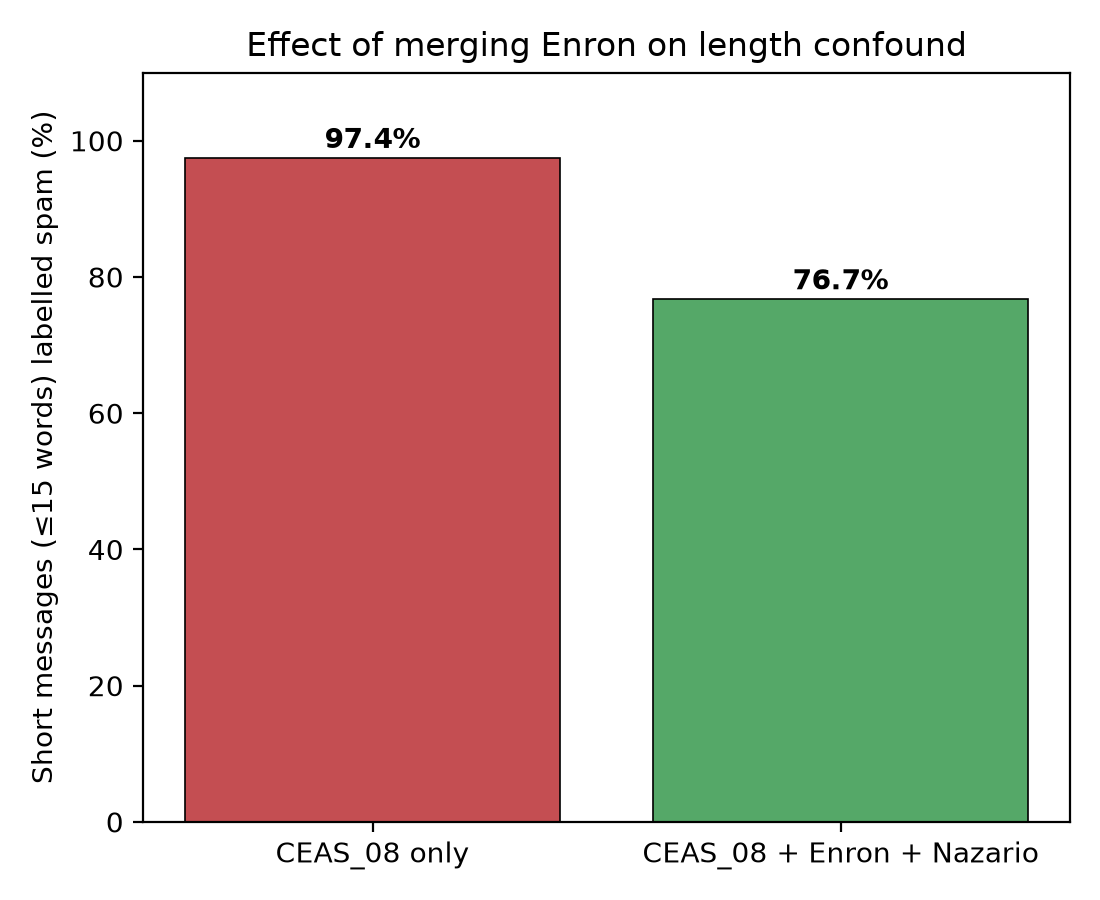
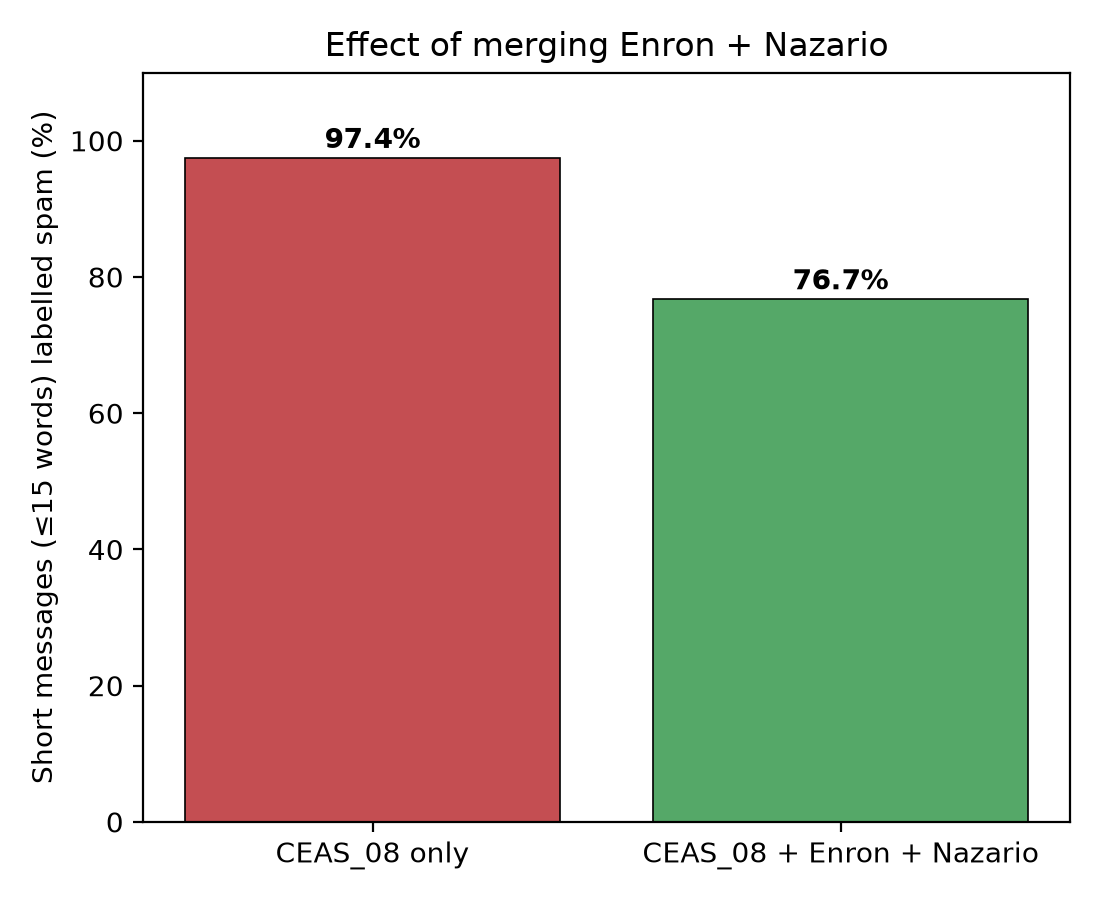
fix: renames title of merging effect graph

Changed region(s): [[0.2164, 0.0311, 0.8964, 0.0622]]

diff --git a/src/figures/figures_data_analysis.py b/src/figures/figures_data_analysis.py
@@ -82,7 +82,7 @@ def fig_merge_effect():
     for b, v in zip(bars, rates):
         ax.text(b.get_x() + b.get_width()/2, v + 1.5, f"{v:.1f}%", ha="center", fontweight="bold")
     ax.set_ylabel("Short messages (≤15 words) labelled spam (%)")
-    ax.set_title("Effect of merging Enron on length confound")
+    ax.set_title("Effect of merging Enron + Nazario")
     ax.set_ylim(0, 110)
     plt.tight_layout(); plt.savefig(OUT_DIR / "fig_effect_of_merging.png", dpi=200)
 
